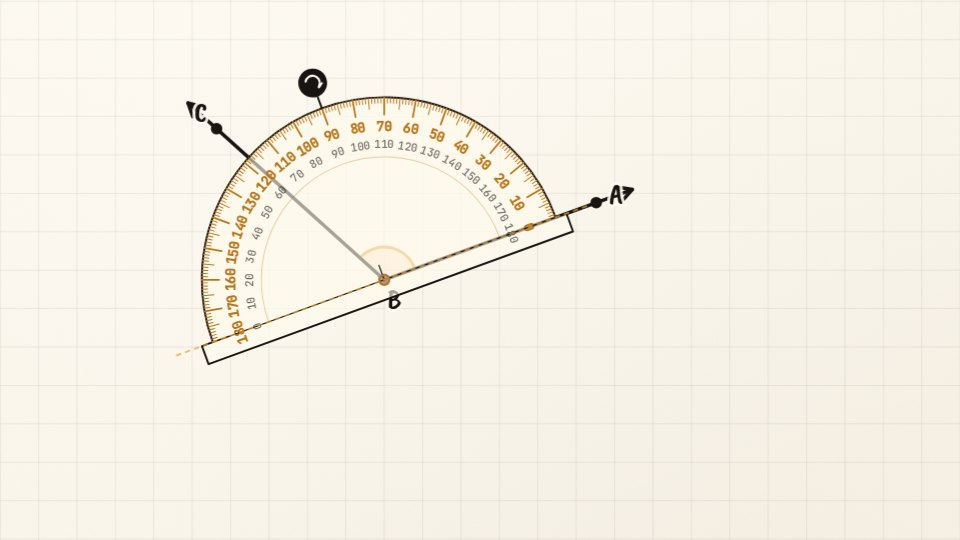
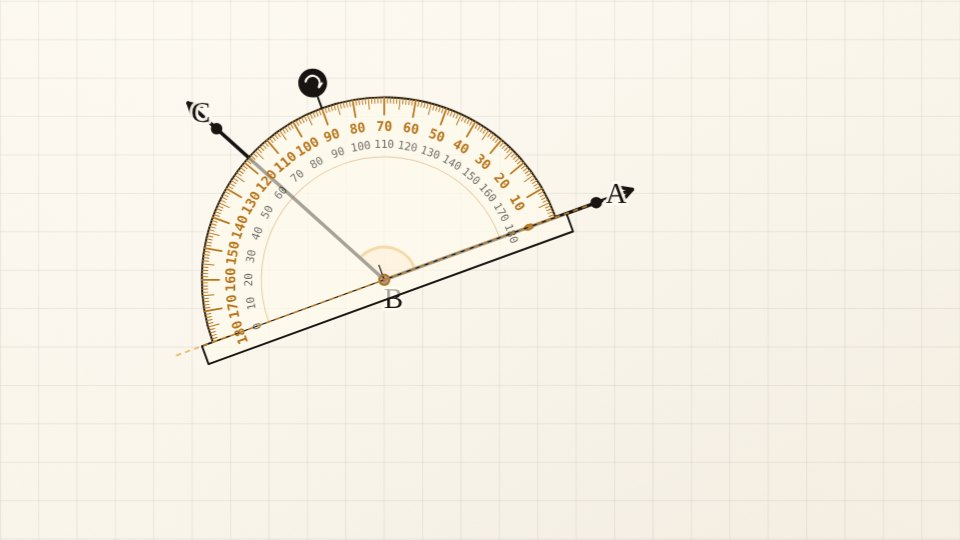
Oyunlar: el çizimi kalem izi ve canlı Nokta
- ortak.js: doğru parçası, çember ve çokgenlere silik ikinci kalem izi (ölçüler değişmez)
- Nokta karakteri ortak.js'e taşındı; oyun panellerinde, ana sayfada, kasaba kartında ve bitiş kartında canlı
- Doğru cevapta sevinir, yanlışta kaşlarını çatıp üzülür, ara sıra göz kırpar
- Araç Ustası: tekne gövdesine gölge, tarama ve suda yansıma
- Ana sayfa önizlemeleri yeniden üretildi

Claude-Session: https://claude.ai/code/session_01T5b4bcUCWBHqyGK8hdTQfB

diff --git a/js/ortak.js b/js/ortak.js
@@ -116,6 +116,106 @@
   });
   N.wait = (ms) => new Promise((r) => setTimeout(r, N.reduced ? Math.min(ms, 120) : ms));
 
+  /* ── el çizimi: sabit gürültü ve kalem izi ── */
+  N.nz = (a) => { const v = Math.sin(a * 12.9898 + 78.233) * 43758.5453; return v - Math.floor(v); };
+  N.sketch = true;
+  const ghostOk = (o) => N.sketch && o.sketch !== false && !(o.dash && o.dash.length) && (o.w || 3) >= 2 && (o.alpha == null || o.alpha > .3);
+  const ghostStyle = (c, o) => { c.strokeStyle = o.color || N.INK; c.lineWidth = (o.w || 3) * .42; c.setLineDash([]); c.globalAlpha = (o.alpha == null ? 1 : o.alpha) * .32; };
+  function ghostSeg(c, a, e, o) {
+    const L = Math.hypot(e.x - a.x, e.y - a.y); if (L < 6) return;
+    const n = { x: -(e.y - a.y) / L, y: (e.x - a.x) / L }, j = (p, k) => (N.nz(p.x * .137 + p.y * .291 + k) - .5) * 2.6;
+    const j1 = j(a, 1), j2 = j(e, 2), j3 = (N.nz(a.x * .07 + e.y * .11) - .5) * Math.min(4, L / 40);
+    const m = { x: (a.x + e.x) / 2 + n.x * j3, y: (a.y + e.y) / 2 + n.y * j3 };
+    ghostStyle(c, o); c.beginPath(); c.moveTo(a.x + n.x * j1, a.y + n.y * j1); c.quadraticCurveTo(m.x, m.y, e.x + n.x * j2, e.y + n.y * j2); c.stroke(); c.globalAlpha = 1;
+  }
+
+  /* ── Nokta karakteri: yürür, göz kırpar, sevinir, üzülür ── */
+  N.noktaChar = (c, x, gy, o) => {
+    const t = o.t, mv = o.moving, dir = o.dir || 1, happy = o.happy, sad = !happy && o.sad;
+    const step = Math.sin(t * 11), bob = mv ? Math.abs(Math.cos(t * 11)) * 5 : Math.sin(t * 2) * 1.2 + (happy ? Math.abs(Math.sin(t * 9)) * 8 : 0);
+    const legL = 24, bw = 25, bh = 31, cx = x, cy = gy - legL - bh + 4 - bob;
+    const sq = mv ? 1 + Math.cos(t * 22) * .03 : 1 + Math.sin(t * 2) * .015;
+    c.lineCap = 'round'; c.lineJoin = 'round'; c.strokeStyle = N.INK;
+    // bacaklar
+    [-1, 1].forEach((sd) => {
+      const hx = cx + sd * 9, hy = cy + bh * .82, sw = mv ? step * sd * 11 : 0, fx = hx + sw + dir * (mv ? 2 : 0), fy = gy - (mv ? Math.max(0, -step * sd) * 6 : 0);
+      c.beginPath(); c.moveTo(hx, hy); c.quadraticCurveTo((hx + fx) / 2 - sd * 1.5, (hy + fy) / 2, fx, fy - 3); c.lineWidth = 3.4; c.stroke();
+      c.beginPath(); c.ellipse(fx + dir * 3, fy - 2.5, 6, 3.6, 0, 0, 7); c.fillStyle = N.INK; c.fill();
+    });
+    // kollar
+    const arm = (sd) => {
+      const sx = cx + sd * bw * .93, sy = cy + 4; let hx, hy;
+      if (o.umbrella && sd === 1) { hx = o.umbrella.x; hy = o.umbrella.y; }
+      else if (happy) { hx = cx + sd * (bw + 16); hy = cy - 30 + Math.sin(t * 14 + sd) * 4; }
+      else if (mv) { hx = sx + sd * 8 - step * sd * 10; hy = sy + 22; }
+      else if (sad) { hx = sx + sd * 4; hy = sy + 24; }
+      else { hx = sx + sd * 10; hy = sy + 20 + Math.sin(t * 2 + sd) * 1.5; }
+      c.beginPath(); c.moveTo(sx, sy); c.quadraticCurveTo((sx + hx) / 2 + sd * 6, (sy + hy) / 2 - 4, hx, hy); c.lineWidth = 2.8; c.stroke();
+      c.beginPath(); c.arc(hx, hy, 3.8, 0, 7); c.fillStyle = N.INK; c.fill();
+    };
+    arm(-1); arm(1);
+    // gövde: yumurta
+    c.save(); c.translate(cx, cy); c.scale(1 / sq, sq); c.rotate(mv ? dir * .06 : Math.sin(t * 1.3) * .02);
+    const egg = () => { c.beginPath(); c.moveTo(0, -bh); c.bezierCurveTo(bw * .95, -bh, bw * 1.05, bh * .1, bw * .92, bh * .45); c.bezierCurveTo(bw * .8, bh * .95, -bw * .8, bh * .95, -bw * .92, bh * .45); c.bezierCurveTo(-bw * 1.05, bh * .1, -bw * .95, -bh, 0, -bh); c.closePath(); };
+    const gr = c.createRadialGradient(-bw * .35, -bh * .45, 3, 0, 0, bh * 1.2); gr.addColorStop(0, '#f1ede6'); gr.addColorStop(.6, '#d6d0c6'); gr.addColorStop(1, '#a9a196');
+    egg(); c.fillStyle = gr; c.fill();
+    c.save(); egg(); c.clip(); c.fillStyle = 'rgba(80,70,60,.18)'; for (let i = 0; i < 26; i++) { c.beginPath(); c.arc((N.nz(i * 3.1) - .5) * bw * 1.8, (N.nz(i * 5.7) - .5) * bh * 1.8, .9 + N.nz(i) * .8, 0, 7); c.fill(); }
+    c.strokeStyle = 'rgba(23,20,17,.22)'; c.lineWidth = 1.2; c.beginPath(); for (let k = 0; k < 6; k++) { const yy = bh * .15 + k * 4.5; c.moveTo(bw * .25 + k * 2, yy + 8); c.lineTo(bw * .9, yy - 4); } c.stroke(); c.restore();
+    egg(); c.strokeStyle = N.INK; c.lineWidth = 3.6; c.stroke();
+    c.save(); c.translate(.8, .6); c.rotate(.02); egg(); c.globalAlpha = .3; c.lineWidth = 1.5; c.stroke(); c.restore();
+    // saç
+    c.lineWidth = 1.8; c.beginPath(); [-4, 0, 4].forEach((hx, i) => { const w = Math.sin(t * 3 + i) * 1.5 - (mv ? dir * 3 : 0); c.moveTo(hx * .6, -bh + 1); c.quadraticCurveTo(hx + w, -bh - 6, hx * 1.6 + w * 1.4, -bh - 9 + Math.abs(hx) * .4); }); c.stroke();
+    // yüz
+    const fx = dir * 3.5 * (mv ? 1 : .5), blink = (t % 4.3) < .13;
+    if (happy || blink) { c.lineWidth = 2; [-1, 1].forEach((sd) => { c.beginPath(); c.arc(fx + sd * 8, -3, 3.6, Math.PI * 1.1, Math.PI * 1.9); c.stroke(); }); }
+    else { c.fillStyle = N.INK; [-1, 1].forEach((sd) => { c.beginPath(); c.ellipse(fx + sd * 8, -4, 2.3, 3, 0, 0, 7); c.fill(); c.beginPath(); c.arc(fx + sd * 8 + .8, -5.2, .8, 0, 7); c.fillStyle = '#fff'; c.fill(); c.fillStyle = N.INK; }); }
+    c.lineWidth = sad ? 1.8 : 1.2; c.globalAlpha = sad ? .9 : .55; [-1, 1].forEach((sd) => { c.beginPath(); c.moveTo(fx + sd * 5, -12 - (happy ? 1.5 : 0) - (sad ? 2.5 : 0)); c.lineTo(fx + sd * 11, -11.5 - (happy ? 2.5 : 0) + (sad ? 1.5 : 0)); c.stroke(); }); c.globalAlpha = 1;
+    c.fillStyle = 'rgba(196,67,43,.18)'; [-1, 1].forEach((sd) => { c.beginPath(); c.ellipse(fx + sd * 14, 4, 4, 2.4, 0, 0, 7); c.fill(); });
+    c.lineWidth = 2; c.beginPath();
+    if (happy) { c.moveTo(fx - 6, 4); c.quadraticCurveTo(fx, 13, fx + 6, 4); c.closePath(); c.fillStyle = '#5a3a2c'; c.fill(); c.stroke(); }
+    else if (sad) { c.arc(fx, 10, 5.5, Math.PI * 1.2, Math.PI * 1.8); c.stroke(); }
+    else { c.arc(fx, 2, 5.5, Math.PI * .2, Math.PI * .8); c.stroke(); }
+    c.restore();
+    // sevinç kırıntıları
+    if (happy) { c.strokeStyle = N.AMBER; c.lineWidth = 3; for (let i = 0; i < 6; i++) { const a = -Math.PI / 2 + (i - 2.5) * .45 + Math.sin(t * 3 + i) * .08, r = 52 + Math.sin(t * 6 + i * 2) * 5, px = cx + Math.cos(a) * r, py = cy + 8 + Math.sin(a) * r; c.beginPath(); c.moveTo(px - Math.cos(a + 1.2) * 5, py - Math.sin(a + 1.2) * 5); c.lineTo(px + Math.cos(a + 1.2) * 5, py + Math.sin(a + 1.2) * 5); c.stroke(); } }
+    c.lineCap = 'butt'; c.lineJoin = 'miter';
+  };
+
+  /* sayfadaki Nokta resimlerini canlı karaktere çevirir (hop → sevinç, shake → üzüntü) */
+  const AV = new Set(); let avRun = false;
+  function avLoop(now) {
+    const t = now / 1000 * (N.reduced ? .3 : 1);
+    AV.forEach((cv) => {
+      if (!cv.isConnected) { AV.delete(cv); return; }
+      const A = cv._av;
+      if (cv.classList.contains('hop')) { cv.classList.remove('hop'); A.happy = t + 2.2; A.sad = 0; }
+      const sh = cv.classList.contains('shake'); if (sh && !A.shook) { A.sad = t + 1.6; A.happy = 0; } A.shook = sh;
+      const w = cv.clientWidth; if (!w) return;
+      const dpr = Math.min(window.devicePixelRatio || 1, 2), W = Math.round(w * dpr), H = Math.round(w * 1.24 * dpr);
+      if (cv.width !== W || cv.height !== H) { cv.width = W; cv.height = H; }
+      const c = cv.getContext('2d'); c.setTransform(1, 0, 0, 1, 0, 0); c.clearRect(0, 0, W, H); c.setTransform(W / 100, 0, 0, W / 100, 0, 0);
+      const happy = A.always === 'happy' || t < A.happy;
+      c.beginPath(); c.ellipse(53, 117, 24, 4.5, 0, 0, 7); c.fillStyle = 'rgba(23,20,17,.14)'; c.fill();
+      N.noktaChar(c, 50, 116, { t: t + A.seed, moving: false, dir: 1, happy, sad: t < A.sad });
+    });
+    if (AV.size) requestAnimationFrame(avLoop); else avRun = false;
+  }
+  N.avatar = (cv, o = {}) => { cv._av = { happy: 0, sad: 0, seed: Math.random() * 10, ...o }; AV.add(cv); if (!avRun) { avRun = true; requestAnimationFrame(avLoop); } return cv; };
+  function swapNokta(root) {
+    if (!root.querySelectorAll) return;
+    root.querySelectorAll('img[src$="nokta.png"]:not([data-keep])').forEach((img) => {
+      const cv = document.createElement('canvas'), cs = getComputedStyle(img);
+      cv.className = img.className + ' nokta-cv'; if (img.id) cv.id = img.id;
+      cv.setAttribute('role', 'img'); cv.setAttribute('aria-label', img.alt || 'Nokta');
+      const w = parseFloat(cs.width) || parseFloat(img.getAttribute('width')) || 78; cv.width = 100; cv.height = 124; cv.style.width = w + 'px'; cv.style.height = 'auto';
+      const end = !!img.closest('.end-card'); img.replaceWith(cv); N.avatar(cv, end ? { always: 'happy' } : {});
+    });
+  }
+  document.addEventListener('DOMContentLoaded', () => {
+    swapNokta(document.body);
+    new MutationObserver((ms) => ms.forEach((m) => m.addedNodes.forEach((nd) => { if (nd.nodeType === 1) swapNokta(nd.matches && nd.matches('img') ? nd.parentNode || nd : nd); }))).observe(document.body, { childList: true, subtree: true });
+  });
+
   /* ── mürekkep çizimleri ── */
   const d = (N.d = {
     style(c, o = {}) {
@@ -126,6 +226,7 @@
     seg(c, a, b, o = {}) {
       const t = o.t == null ? 1 : o.t, e = g.lerp(a, b, t);
       d.style(c, o); c.beginPath(); c.moveTo(a.x, a.y); c.lineTo(e.x, e.y); c.stroke(); d.end(c);
+      if (ghostOk(o)) ghostSeg(c, a, e, o);
     },
     arrow(c, at, dir, o = {}) {
       const s = o.size || 13, u = g.unit(dir), n = { x: -u.y, y: u.x };
@@ -154,6 +255,7 @@
       d.style(c, o); c.beginPath(); c.arc(p.x, p.y, Math.max(0, r), -s, -s - t * Math.PI * 2, true);
       if (o.fill) { c.fillStyle = o.fill; c.fill(); }
       if (!o.noStroke) c.stroke(); d.end(c);
+      if (!o.noStroke && ghostOk(o) && r > 8) { const dr = (N.nz(p.x * .3 + p.y * .7 + r) - .5) * 3, ox = (N.nz(p.y + r) - .5) * 1.6; ghostStyle(c, o); c.beginPath(); c.arc(p.x + ox, p.y - ox * .6, r + dr, -s - .35, -s - .35 - Math.min(t * Math.PI * 2, Math.PI * 2 - .2), true); c.stroke(); c.globalAlpha = 1; }
     },
     dot(c, p, o = {}) {
       c.beginPath(); c.arc(p.x, p.y, o.r || 5.5, 0, Math.PI * 2); c.fillStyle = o.color || N.INK; c.fill();
@@ -182,6 +284,7 @@
       c.beginPath(); c.moveTo(pts[0].x, pts[0].y); for (let i = 1; i < pts.length; i++) c.lineTo(pts[i].x, pts[i].y); if (o.open !== true) c.closePath();
       if (o.fill) { c.fillStyle = o.fill; c.fill(); }
       if (!o.noStroke) { d.style(c, o); c.stroke(); d.end(c); }
+      if (!o.noStroke && ghostOk(o)) { const n = pts.length - (o.open === true ? 1 : 0); for (let i = 0; i < n; i++) ghostSeg(c, pts[i], pts[(i + 1) % pts.length], o); }
     },
     /** kenar üzerine eşlik çentikleri (n adet) */
     ticks(c, a, b, n, o = {}) {

diff --git a/js/kasaba.js b/js/kasaba.js
@@ -863,55 +863,8 @@ const KASABA_METINLERI = {
     // kelebek
     if (st.hava === 'sabah') { layer(1); const bx = 2000 + Math.sin(st.t * .4) * 3000, by = 520 + Math.sin(st.t * 1.7) * 40, w = Math.abs(Math.sin(st.t * 12)); ctx.fillStyle = N.AMBER; ctx.strokeStyle = N.INK; ctx.lineWidth = 1.5; [-1, 1].forEach((sd) => { ctx.beginPath(); ctx.ellipse(bx + sd * 7 * w, by, 7 * w + 1, 9, 0, 0, 7); ctx.fill(); ctx.stroke(); }); }
   }
-  /* Nokta: çizimle canlandırılan karakter (yürür, göz kırpar, sevinir) */
-  function drawNoktaChar(x, gy, o) {
-    const t = o.t, mv = o.moving, dir = o.dir || 1, happy = o.happy;
-    const step = Math.sin(t * 11), bob = mv ? Math.abs(Math.cos(t * 11)) * 5 : Math.sin(t * 2) * 1.2 + (happy ? Math.abs(Math.sin(t * 9)) * 8 : 0);
-    const legL = 24, bw = 25, bh = 31, cx = x, cy = gy - legL - bh + 4 - bob;
-    const sq = mv ? 1 + Math.cos(t * 22) * .03 : 1 + Math.sin(t * 2) * .015;
-    ctx.lineCap = 'round'; ctx.lineJoin = 'round'; ctx.strokeStyle = N.INK;
-    // bacaklar
-    [-1, 1].forEach((sd) => {
-      const hx = cx + sd * 9, hy = cy + bh * .82, sw = mv ? step * sd * 11 : 0, fx = hx + sw + dir * (mv ? 2 : 0), fy = gy - (mv ? Math.max(0, -step * sd) * 6 : 0);
-      ctx.beginPath(); ctx.moveTo(hx, hy); ctx.quadraticCurveTo((hx + fx) / 2 - sd * 1.5, (hy + fy) / 2, fx, fy - 3); ctx.lineWidth = 3.4; ctx.stroke();
-      ctx.beginPath(); ctx.ellipse(fx + dir * 3, fy - 2.5, 6, 3.6, 0, 0, 7); ctx.fillStyle = N.INK; ctx.fill();
-    });
-    // kollar
-    const arm = (sd) => {
-      const sx = cx + sd * bw * .93, sy = cy + 4; let hx, hy;
-      if (o.umbrella && sd === 1) { hx = o.umbrella.x; hy = o.umbrella.y; }
-      else if (happy) { hx = cx + sd * (bw + 16); hy = cy - 30 + Math.sin(t * 14 + sd) * 4; }
-      else if (mv) { hx = sx + sd * 8 - step * sd * 10; hy = sy + 22; }
-      else { hx = sx + sd * 10; hy = sy + 20 + Math.sin(t * 2 + sd) * 1.5; }
-      ctx.beginPath(); ctx.moveTo(sx, sy); ctx.quadraticCurveTo((sx + hx) / 2 + sd * 6, (sy + hy) / 2 - 4, hx, hy); ctx.lineWidth = 2.8; ctx.stroke();
-      ctx.beginPath(); ctx.arc(hx, hy, 3.8, 0, 7); ctx.fillStyle = N.INK; ctx.fill();
-    };
-    arm(-1); arm(1);
-    // gövde: yumurta
-    ctx.save(); ctx.translate(cx, cy); ctx.scale(1 / sq, sq); ctx.rotate(mv ? dir * .06 : Math.sin(t * 1.3) * .02);
-    const egg = () => { ctx.beginPath(); ctx.moveTo(0, -bh); ctx.bezierCurveTo(bw * .95, -bh, bw * 1.05, bh * .1, bw * .92, bh * .45); ctx.bezierCurveTo(bw * .8, bh * .95, -bw * .8, bh * .95, -bw * .92, bh * .45); ctx.bezierCurveTo(-bw * 1.05, bh * .1, -bw * .95, -bh, 0, -bh); ctx.closePath(); };
-    const gr = ctx.createRadialGradient(-bw * .35, -bh * .45, 3, 0, 0, bh * 1.2); gr.addColorStop(0, '#f1ede6'); gr.addColorStop(.6, '#d6d0c6'); gr.addColorStop(1, '#a9a196');
-    egg(); ctx.fillStyle = gr; ctx.fill();
-    ctx.save(); egg(); ctx.clip(); ctx.fillStyle = 'rgba(80,70,60,.18)'; for (let i = 0; i < 26; i++) { ctx.beginPath(); ctx.arc((nz(i * 3.1) - .5) * bw * 1.8, (nz(i * 5.7) - .5) * bh * 1.8, .9 + nz(i) * .8, 0, 7); ctx.fill(); }
-    ctx.strokeStyle = 'rgba(23,20,17,.22)'; ctx.lineWidth = 1.2; ctx.beginPath(); for (let k = 0; k < 6; k++) { const yy = bh * .15 + k * 4.5; ctx.moveTo(bw * .25 + k * 2, yy + 8); ctx.lineTo(bw * .9, yy - 4); } ctx.stroke(); ctx.restore();
-    egg(); ctx.strokeStyle = N.INK; ctx.lineWidth = 3.6; ctx.stroke();
-    ctx.save(); ctx.translate(.8, .6); ctx.rotate(.02); egg(); ctx.globalAlpha = .3; ctx.lineWidth = 1.5; ctx.stroke(); ctx.restore();
-    // saç
-    ctx.lineWidth = 1.8; ctx.beginPath(); [-4, 0, 4].forEach((hx, i) => { const w = Math.sin(t * 3 + i) * 1.5 - (mv ? dir * 3 : 0); ctx.moveTo(hx * .6, -bh + 1); ctx.quadraticCurveTo(hx + w, -bh - 6, hx * 1.6 + w * 1.4, -bh - 9 + Math.abs(hx) * .4); }); ctx.stroke();
-    // yüz
-    const fx = dir * 3.5 * (mv ? 1 : .5), blink = (t % 4.3) < .13;
-    if (happy || blink) { ctx.lineWidth = 2; [-1, 1].forEach((sd) => { ctx.beginPath(); ctx.arc(fx + sd * 8, -3, 3.6, Math.PI * 1.1, Math.PI * 1.9); ctx.stroke(); }); }
-    else { ctx.fillStyle = N.INK; [-1, 1].forEach((sd) => { ctx.beginPath(); ctx.ellipse(fx + sd * 8, -4, 2.3, 3, 0, 0, 7); ctx.fill(); ctx.beginPath(); ctx.arc(fx + sd * 8 + .8, -5.2, .8, 0, 7); ctx.fillStyle = '#fff'; ctx.fill(); ctx.fillStyle = N.INK; }); }
-    ctx.lineWidth = 1.2; ctx.globalAlpha = .55; [-1, 1].forEach((sd) => { ctx.beginPath(); ctx.moveTo(fx + sd * 5, -12 - (happy ? 1.5 : 0)); ctx.lineTo(fx + sd * 11, -11.5 - (happy ? 2.5 : 0)); ctx.stroke(); }); ctx.globalAlpha = 1;
-    ctx.fillStyle = 'rgba(196,67,43,.18)'; [-1, 1].forEach((sd) => { ctx.beginPath(); ctx.ellipse(fx + sd * 14, 4, 4, 2.4, 0, 0, 7); ctx.fill(); });
-    ctx.lineWidth = 2; ctx.beginPath();
-    if (happy) { ctx.moveTo(fx - 6, 4); ctx.quadraticCurveTo(fx, 13, fx + 6, 4); ctx.closePath(); ctx.fillStyle = '#5a3a2c'; ctx.fill(); ctx.stroke(); }
-    else { const m = mv ? 2.5 : 3.5; ctx.arc(fx, 2, 5.5, Math.PI * .2, Math.PI * .8); ctx.stroke(); void m; }
-    ctx.restore();
-    // sevinç kırıntıları
-    if (happy) { ctx.strokeStyle = N.AMBER; ctx.lineWidth = 3; for (let i = 0; i < 6; i++) { const a = -Math.PI / 2 + (i - 2.5) * .45 + Math.sin(t * 3 + i) * .08, r = 52 + Math.sin(t * 6 + i * 2) * 5, px = cx + Math.cos(a) * r, py = cy + 8 + Math.sin(a) * r; ctx.beginPath(); ctx.moveTo(px - Math.cos(a + 1.2) * 5, py - Math.sin(a + 1.2) * 5); ctx.lineTo(px + Math.cos(a + 1.2) * 5, py + Math.sin(a + 1.2) * 5); ctx.stroke(); } }
-    ctx.lineCap = 'butt'; ctx.lineJoin = 'miter';
-  }
+  /* Nokta: çizimle canlandırılan karakter (ortak.js) */
+  const drawNoktaChar = (x, gy, o) => N.noktaChar(ctx, x, gy, o);
   function noktaDraw() {
     layer(1);
     const moving = Math.abs(nokta.tx - nokta.x) > 2, h = 112;

diff --git a/js/arac-ustasi.js b/js/arac-ustasi.js
@@ -131,7 +131,13 @@
     c.beginPath(); c.moveTo(338, 438);
     c.lineTo(684, 438); c.quadraticCurveTo(660, 470, 616, 494); c.lineTo(404, 494); c.quadraticCurveTo(360, 470, 338, 438); c.closePath();
     const f = st.finale ? .9 : .55;
-    c.fillStyle = `rgba(107,79,53,${f})`; c.fill(); c.strokeStyle = N.INK; c.lineWidth = 3.5; c.stroke();
+    c.fillStyle = `rgba(107,79,53,${f})`; c.fill();
+    c.save(); c.clip(); c.fillStyle = 'rgba(23,20,17,.16)'; c.fillRect(330, 476, 360, 24); // gövde altı gölge
+    c.strokeStyle = 'rgba(23,20,17,.22)'; c.lineWidth = 1.3; c.beginPath(); for (let x = 560; x < 720; x += 7) { c.moveTo(x, 500); c.lineTo(x + 60, 430); } c.stroke(); c.restore();
+    c.beginPath(); c.moveTo(338, 438); c.lineTo(684, 438); c.quadraticCurveTo(660, 470, 616, 494); c.lineTo(404, 494); c.quadraticCurveTo(360, 470, 338, 438); c.closePath();
+    c.strokeStyle = N.INK; c.lineWidth = 3.5; c.stroke();
+    c.strokeStyle = 'rgba(23,20,17,.3)'; c.lineWidth = 1.5; c.beginPath(); c.moveTo(340, 440.5); c.lineTo(686, 437); c.stroke();
+    if (A('deniz')) { c.strokeStyle = 'rgba(107,79,53,.28)'; c.lineWidth = 3; for (let k = 0; k < 4; k++) { const y = 504 + k * 9, w = 120 - k * 22, sh = Math.sin(st.t * 2 + k) * 6; c.beginPath(); c.moveTo(510 - w + sh, y); c.lineTo(510 + w + sh, y); c.stroke(); } }
     c.strokeStyle = 'rgba(23,20,17,.35)'; c.lineWidth = 1.6;
     c.beginPath(); c.moveTo(352, 456); c.lineTo(670, 456); c.moveTo(372, 476); c.lineTo(648, 476); c.stroke();
     [420, 470, 550, 600].forEach((x) => { c.beginPath(); c.arc(x, 450, 5, 0, Math.PI * 2); c.fillStyle = 'rgba(255,250,236,.9)'; c.fill(); c.strokeStyle = N.INK; c.lineWidth = 1.6; c.stroke(); });

diff --git a/css/oyun.css b/css/oyun.css
@@ -61,7 +61,10 @@ b { font-weight: 600; }
 .say { display: grid; grid-template-columns: 78px minmax(0, 1fr); gap: 12px; align-items: start; }
 .say img { width: 78px; height: auto; transform-origin: 50% 92%; }
 .say img.hop { animation: hop .9s ease-in-out 1; }
-.say img.shake { animation: shake .5s ease-in-out 1; }
+.say img.shake, .nokta-cv.shake { animation: shake .5s ease-in-out 1; }
+.nokta-cv { display: block; height: auto; transform-origin: 50% 92%; }
+.say .nokta-cv { width: 78px !important; }
+.end-card .nokta-cv { width: 130px !important; margin: -8px auto 0; }
 .say p { position: relative; margin: 6px 0 0; background: var(--sheet); border-radius: 14px; padding: 12px 15px; box-shadow: 0 0 0 1.8px var(--ink), 0 10px 22px -18px rgba(60,40,10,.7); font-size: 16.5px; line-height: 1.45; min-height: 70px; }
 .say p::before { content: ""; position: absolute; left: -11px; top: 22px; border-right: 11px solid var(--ink); border-top: 8px solid transparent; border-bottom: 8px solid transparent; }
 .say p::after { content: ""; position: absolute; left: -8px; top: 23.5px; border-right: 9px solid var(--sheet); border-top: 6.5px solid transparent; border-bottom: 6.5px solid transparent; }
@@ -139,7 +142,7 @@ dialog.end::backdrop { background: rgba(18, 15, 12, .7); backdrop-filter: blur(2
 @media (max-width: 960px) {
   .game { grid-template-columns: 1fr; }
   .say { grid-template-columns: 60px minmax(0, 1fr); }
-  .say img { width: 60px; }
+  .say img, .say .nokta-cv { width: 60px !important; }
 }
 @media (max-width: 520px) {
   .hud { width: 100%; justify-content: space-between; }

diff --git a/oyunlar/kasaba.html b/oyunlar/kasaba.html
@@ -9,8 +9,8 @@
 <link rel="preconnect" href="https://fonts.googleapis.com">
 <link rel="preconnect" href="https://fonts.gstatic.com" crossorigin>
 <link href="https://fonts.googleapis.com/css2?family=Caveat+Brush&family=Fraunces:ital,opsz,wght@0,9..144,400;0,9..144,600;1,9..144,400&family=JetBrains+Mono:wght@500&display=swap" rel="stylesheet">
-<link rel="stylesheet" href="../css/oyun.css?v=202610030628">
-<link rel="stylesheet" href="../css/kasaba.css?v=202610030628">
+<link rel="stylesheet" href="../css/oyun.css?v=202610030751">
+<link rel="stylesheet" href="../css/kasaba.css?v=202610030751">
 </head>
 <body>
 <canvas id="world" aria-label="Kasaba manzarası: sürükleyerek gez, nesnelere dokun"></canvas>
@@ -44,7 +44,7 @@
 <div class="sheet" id="defter" role="dialog" aria-modal="true"><div class="sbox" id="defterBox"></div></div>
 <div class="sheet" id="ogretmen" role="dialog" aria-modal="true"><div class="sbox" id="ogretmenBox"></div></div>
 
-<script src="../js/ortak.js?v=202610030628"></script>
-<script src="../js/kasaba.js?v=202610030628"></script>
+<script src="../js/ortak.js?v=202610030751"></script>
+<script src="../js/kasaba.js?v=202610030751"></script>
 </body>
 </html>

diff --git a/index.html b/index.html
@@ -12,7 +12,7 @@
 <link rel="preconnect" href="https://fonts.googleapis.com">
 <link rel="preconnect" href="https://fonts.gstatic.com" crossorigin>
 <link href="https://fonts.googleapis.com/css2?family=Caveat+Brush&family=Fraunces:ital,opsz,wght@0,9..144,400;0,9..144,600;1,9..144,400&family=JetBrains+Mono:wght@500&display=swap" rel="stylesheet">
-<link rel="stylesheet" href="css/oyun.css?v=202610030628">
+<link rel="stylesheet" href="css/oyun.css?v=202610030751">
 <style>
   .wrap { max-width: 1120px; }
   header.hero { position: relative; padding-top: clamp(36px, 7vw, 84px); padding-bottom: 28px; }
@@ -169,7 +169,7 @@
   <span><a href="https://hakanatas.github.io/nokta-filmleri/" target="_blank" rel="noopener">Nokta'nın Filmleri ↗</a></span>
 </footer>
 
-<script src="js/ortak.js?v=202610030628"></script>
+<script src="js/ortak.js?v=202610030751"></script>
 <script>
   const FILMS = 'https://hakanatas.github.io/nokta-filmleri/';
   const GAMES = [

diff --git a/oyunlar/kesisme-dedektifi.html b/oyunlar/kesisme-dedektifi.html
@@ -9,7 +9,7 @@
 <link rel="preconnect" href="https://fonts.googleapis.com">
 <link rel="preconnect" href="https://fonts.gstatic.com" crossorigin>
 <link href="https://fonts.googleapis.com/css2?family=Caveat+Brush&family=Fraunces:ital,opsz,wght@0,9..144,400;0,9..144,600;1,9..144,400&family=JetBrains+Mono:wght@500&display=swap" rel="stylesheet">
-<link rel="stylesheet" href="../css/oyun.css?v=202610030628">
+<link rel="stylesheet" href="../css/oyun.css?v=202610030751">
 </head>
 <body>
 <header class="topbar wrap">
@@ -24,7 +24,7 @@
     <div class="panel" id="panel"></div>
   </aside>
 </main>
-<script src="../js/ortak.js?v=202610030628"></script>
-<script src="../js/kesisme-dedektifi.js?v=202610030628"></script>
+<script src="../js/ortak.js?v=202610030751"></script>
+<script src="../js/kesisme-dedektifi.js?v=202610030751"></script>
 </body>
 </html>

diff --git a/oyunlar/pergel-ustasi.html b/oyunlar/pergel-ustasi.html
@@ -9,7 +9,7 @@
 <link rel="preconnect" href="https://fonts.googleapis.com">
 <link rel="preconnect" href="https://fonts.gstatic.com" crossorigin>
 <link href="https://fonts.googleapis.com/css2?family=Caveat+Brush&family=Fraunces:ital,opsz,wght@0,9..144,400;0,9..144,600;1,9..144,400&family=JetBrains+Mono:wght@500&display=swap" rel="stylesheet">
-<link rel="stylesheet" href="../css/oyun.css?v=202610030628">
+<link rel="stylesheet" href="../css/oyun.css?v=202610030751">
 </head>
 <body>
 <header class="topbar wrap">
@@ -24,7 +24,7 @@
     <div class="panel" id="panel"></div>
   </aside>
 </main>
-<script src="../js/ortak.js?v=202610030628"></script>
-<script src="../js/pergel-ustasi.js?v=202610030628"></script>
+<script src="../js/ortak.js?v=202610030751"></script>
+<script src="../js/pergel-ustasi.js?v=202610030751"></script>
 </body>
 </html>

diff --git a/oyunlar/ucgenin-sirri.html b/oyunlar/ucgenin-sirri.html
@@ -9,7 +9,7 @@
 <link rel="preconnect" href="https://fonts.googleapis.com">
 <link rel="preconnect" href="https://fonts.gstatic.com" crossorigin>
 <link href="https://fonts.googleapis.com/css2?family=Caveat+Brush&family=Fraunces:ital,opsz,wght@0,9..144,400;0,9..144,600;1,9..144,400&family=JetBrains+Mono:wght@500&display=swap" rel="stylesheet">
-<link rel="stylesheet" href="../css/oyun.css?v=202610030628">
+<link rel="stylesheet" href="../css/oyun.css?v=202610030751">
 </head>
 <body>
 <header class="topbar wrap">
@@ -24,7 +24,7 @@
     <div class="panel" id="panel"></div>
   </aside>
 </main>
-<script src="../js/ortak.js?v=202610030628"></script>
-<script src="../js/ucgenin-sirri.js?v=202610030628"></script>
+<script src="../js/ortak.js?v=202610030751"></script>
+<script src="../js/ucgenin-sirri.js?v=202610030751"></script>
 </body>
 </html>

diff --git a/oyunlar/arac-ustasi.html b/oyunlar/arac-ustasi.html
@@ -9,7 +9,7 @@
 <link rel="preconnect" href="https://fonts.googleapis.com">
 <link rel="preconnect" href="https://fonts.gstatic.com" crossorigin>
 <link href="https://fonts.googleapis.com/css2?family=Caveat+Brush&family=Fraunces:ital,opsz,wght@0,9..144,400;0,9..144,600;1,9..144,400&family=JetBrains+Mono:wght@500&display=swap" rel="stylesheet">
-<link rel="stylesheet" href="../css/oyun.css?v=202610030628">
+<link rel="stylesheet" href="../css/oyun.css?v=202610030751">
 </head>
 <body>
 <header class="topbar wrap">
@@ -24,7 +24,7 @@
     <div class="panel" id="panel"></div>
   </aside>
 </main>
-<script src="../js/ortak.js?v=202610030628"></script>
-<script src="../js/arac-ustasi.js?v=202610030628"></script>
+<script src="../js/ortak.js?v=202610030751"></script>
+<script src="../js/arac-ustasi.js?v=202610030751"></script>
 </body>
 </html>

diff --git a/oyunlar/sekli-kapat.html b/oyunlar/sekli-kapat.html
@@ -9,7 +9,7 @@
 <link rel="preconnect" href="https://fonts.googleapis.com">
 <link rel="preconnect" href="https://fonts.gstatic.com" crossorigin>
 <link href="https://fonts.googleapis.com/css2?family=Caveat+Brush&family=Fraunces:ital,opsz,wght@0,9..144,400;0,9..144,600;1,9..144,400&family=JetBrains+Mono:wght@500&display=swap" rel="stylesheet">
-<link rel="stylesheet" href="../css/oyun.css?v=202610030628">
+<link rel="stylesheet" href="../css/oyun.css?v=202610030751">
 </head>
 <body>
 <header class="topbar wrap">
@@ -24,7 +24,7 @@
     <div class="panel" id="panel"></div>
   </aside>
 </main>
-<script src="../js/ortak.js?v=202610030628"></script>
-<script src="../js/sekli-kapat.js?v=202610030628"></script>
+<script src="../js/ortak.js?v=202610030751"></script>
+<script src="../js/sekli-kapat.js?v=202610030751"></script>
 </body>
 </html>

diff --git a/oyunlar/aci-avcisi.html b/oyunlar/aci-avcisi.html
@@ -9,7 +9,7 @@
 <link rel="preconnect" href="https://fonts.googleapis.com">
 <link rel="preconnect" href="https://fonts.gstatic.com" crossorigin>
 <link href="https://fonts.googleapis.com/css2?family=Caveat+Brush&family=Fraunces:ital,opsz,wght@0,9..144,400;0,9..144,600;1,9..144,400&family=JetBrains+Mono:wght@500&display=swap" rel="stylesheet">
-<link rel="stylesheet" href="../css/oyun.css?v=202610030628">
+<link rel="stylesheet" href="../css/oyun.css?v=202610030751">
 </head>
 <body>
 <header class="topbar wrap">
@@ -24,7 +24,7 @@
     <div class="panel" id="panel"></div>
   </aside>
 </main>
-<script src="../js/ortak.js?v=202610030628"></script>
-<script src="../js/aci-avcisi.js?v=202610030628"></script>
+<script src="../js/ortak.js?v=202610030751"></script>
+<script src="../js/aci-avcisi.js?v=202610030751"></script>
 </body>
 </html>
